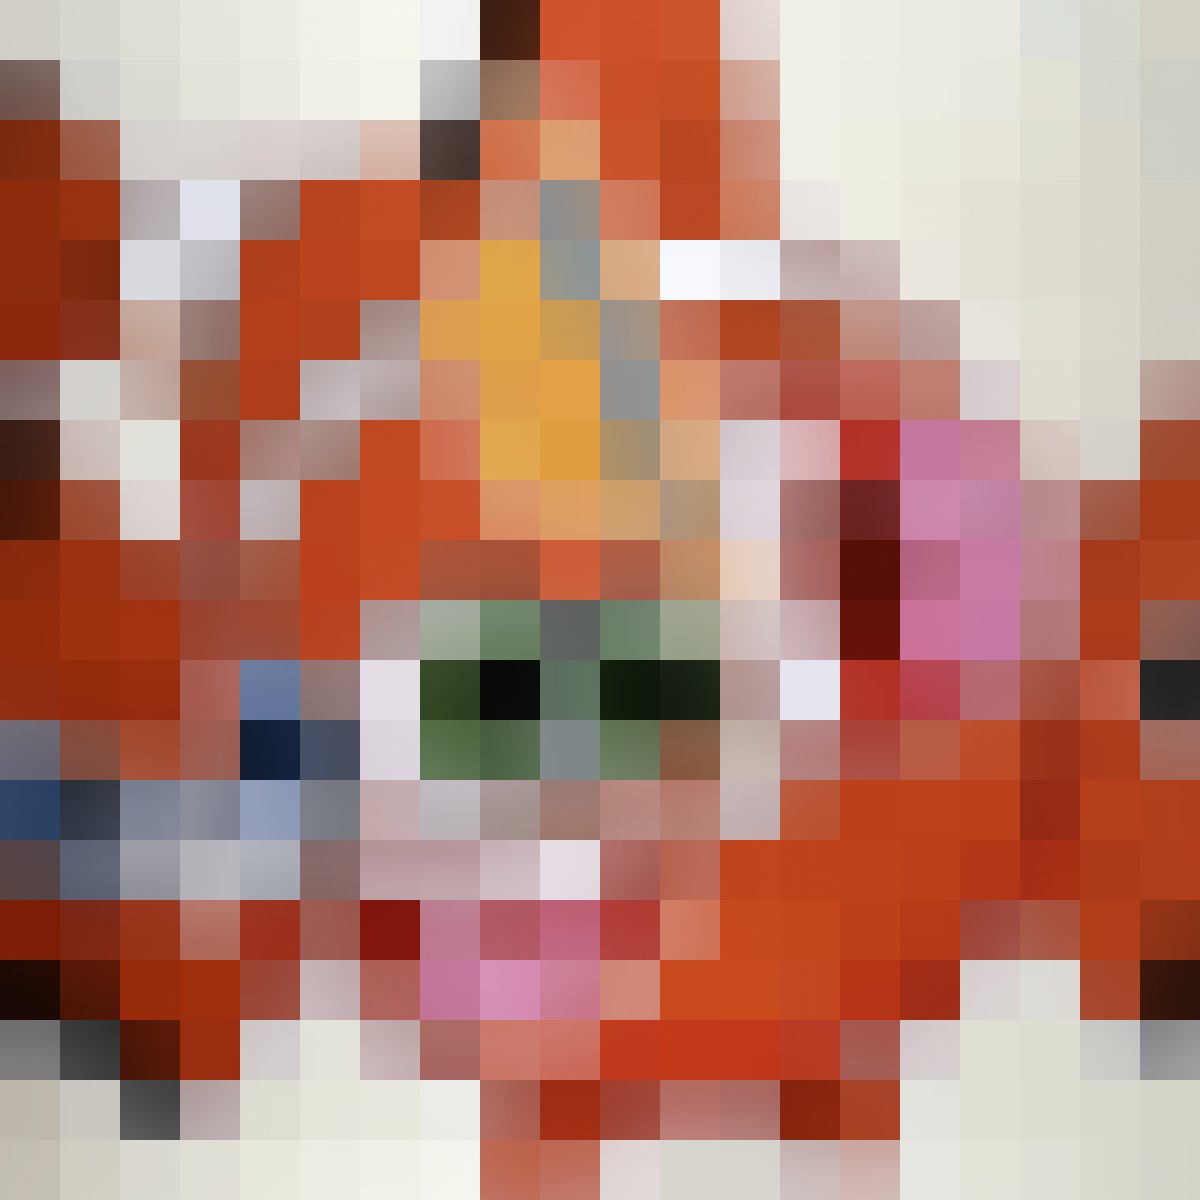
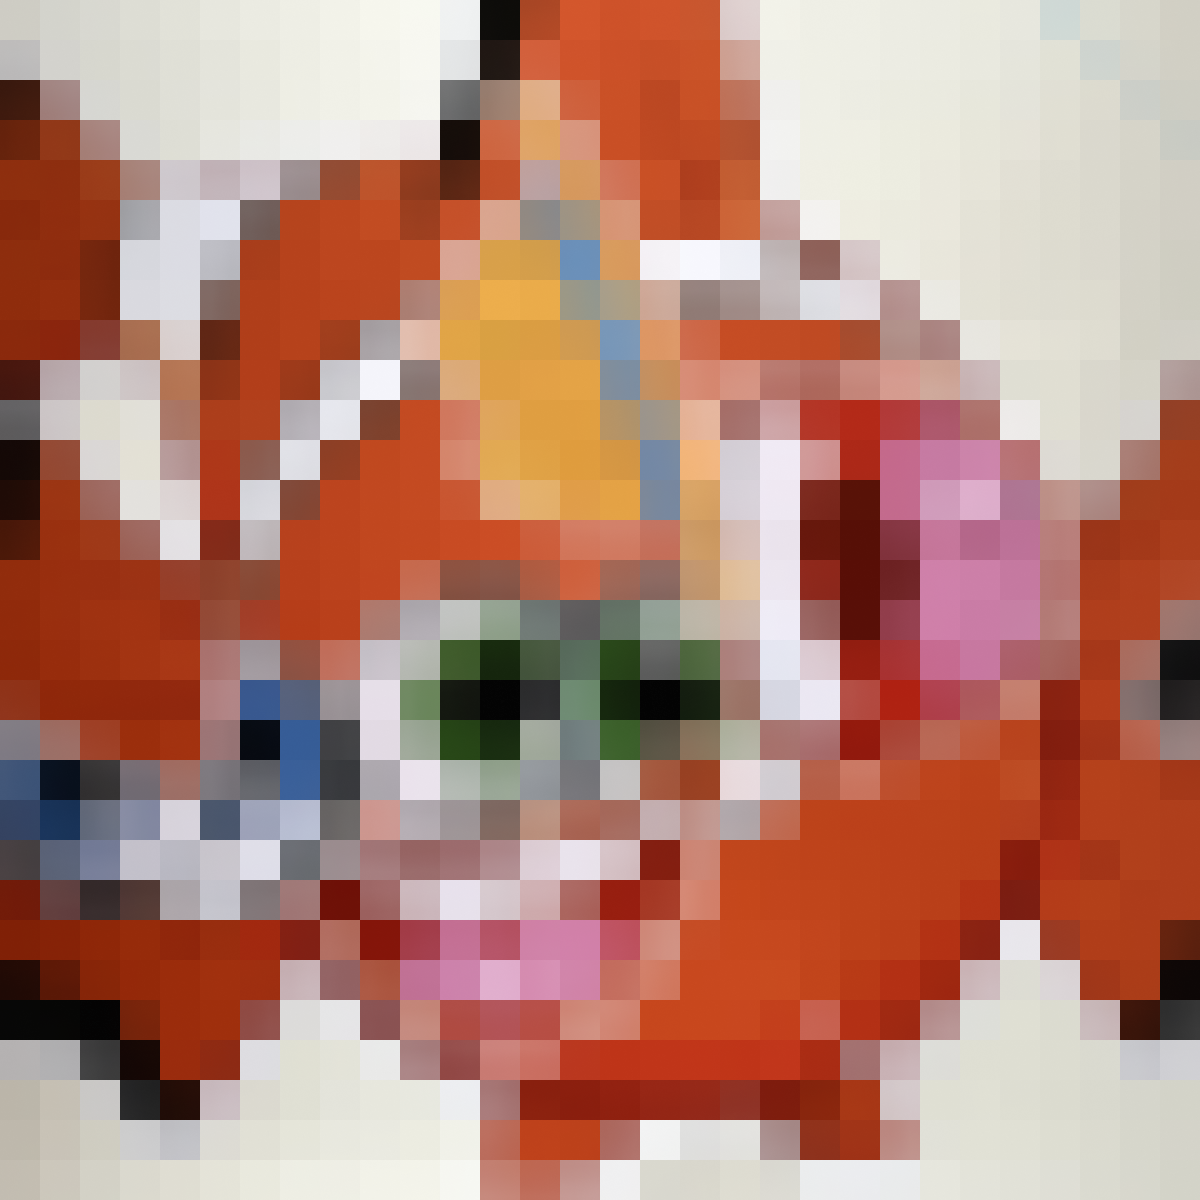
feat: finalize alpha launch content

diff --git a/src/styles/global.css b/src/styles/global.css
@@ -19,7 +19,7 @@
   --secondary: var(--peach);
   --tertiary: var(--cream);
   --header-text: var(--grey-20);
-  --primary-text: var(--grey-50);
+  --primary-text: var(--grey-40);
   --secondary-text: var(--grey-60);
   --accent-text: var(--peach);
   --disabled-text: var(--grey-60);
@@ -33,8 +33,8 @@
   --secondary: var(--peach);
   --tertiary: var(--cream);
   --header-text: var(--grey-80);
-  --primary-text: var(--grey-50);
-  --secondary-text: var(--grey-40);
+  --primary-text: var(--grey-60);
+  --secondary-text: var(--grey-50);
   --accent-text: var(--peach);
   --disabled-text: var(--grey-40);
   --card-bg: var(--grey-20);
@@ -68,4 +68,12 @@ html.mono {
 .md-content ul {
   margin-top: -10px;
   padding-left: 20px;
+}
+
+.retro-mode .retro-cover {
+  display: block !important;
+}
+
+.retro-mode .cover {
+  display: none;
 }

diff --git a/src/content.config.ts b/src/content.config.ts
@@ -10,7 +10,10 @@ const mixtapes = defineCollection({
       href: z.object({
         spotify: z.string().url(),
       }),
-      cover: image(),
+      cover: z.object({
+        default: image(),
+        retro: image(),
+      }),
       date: z.number(),
     }),
 });

diff --git a/src/mixtapes/pitt-wentworth.md b/src/mixtapes/pitt-wentworth.md
@@ -5,19 +5,22 @@ href:
   {
     spotify: 'https://open.spotify.com/playlist/1hE6gBi88csVWoxpSF1DTu?si=17c12d2b4a8b4236',
   }
-cover: '../assets/pitt_wentworth.jpg'
-date: 20.01
+cover:
+  {
+    default: '../assets/pitt_wentworth.jpg',
+    retro: '../assets/retro/pitt_wentworth.png',
+  }
+date: 1401
 ---
 
 Track List
 
 - Ghinzu - The Dragster Wave
 - Soulwax - E Talking
-- Zornik - Scared of Yourself
-- Fightstar - Floods
 - Does It Offend You, Yeah? - With A Heavy Heart
-- Muse - Glorious
-- Vendetta Red - Vendetta Red Cried Rape On Their Date with Destiny
+- Mintzkov - Life After Fire
 - Klaxons - Magick
 - Millionaire - Body Experience Revue
-- Mutemath - Typical
+- The Horrors - Jack The Ripper
+- dEUS - Bad Timing
+- Zornik - This Song Is Just for You

diff --git a/src/mixtapes/briefcase_tacos.md b/src/mixtapes/briefcase_tacos.md
@@ -1,0 +1,29 @@
+---
+title: 'Briefcase Tacos'
+genre: ['Punk', 'Pop punk']
+href:
+  {
+    spotify: 'https://open.spotify.com/playlist/72ubYnHerpjTWP2oCJOY5f?si=fb93c88b0a7b4075',
+  }
+cover:
+  {
+    default: '../assets/briefcase_tacos.png',
+    retro: '../assets/briefcase_tacos.png',
+  }
+date: 2210
+---
+
+Track List
+
+- Microwave - Lighterless
+- PUP - DVP
+- Drug Church - Weed Pin
+- Diarrhea Planet - Kids
+- Nothing - Vertigo Flowers
+- Basement - Aquasun
+- Violent Soho - Covered In Chrome
+- FIDLAR - 40oz. On Repeat
+- Wavves - Demon to Lean On
+- Fucked Up - Queen of Hearts
+- Origami Angel - Doctor Whomst
+- Jeff Rosenstock - Staring Out the Window at Your Old Apartment

diff --git a/src/mixtapes/sprint-st-grow-room.md b/src/mixtapes/sprint-st-grow-room.md
@@ -5,7 +5,11 @@ href:
   {
     spotify: 'https://open.spotify.com/playlist/4xOxSEE4bxzMlv1uNzJtPh?si=cc20fb9db29046eb',
   }
-cover: '../assets/sprint_st_grow_room.jpg'
+cover:
+  {
+    default: '../assets/spring_st_grow_room.jpg',
+    retro: '../assets/retro/spring_st_grow_room.png',
+  }
 date: 2102
 ---
 

diff --git a/src/mixtapes/two-pink-transformers.md b/src/mixtapes/two-pink-transformers.md
@@ -5,7 +5,11 @@ href:
   {
     spotify: 'https://open.spotify.com/playlist/1abMY7CMy7czckUX6TwuU6?si=4d0a683cc5f34472',
   }
-cover: '../assets/two_pink_transformers.jpg'
+cover:
+  {
+    default: '../assets/two_pink_transformers.jpg',
+    retro: '../assets/two_pink_transformers.jpg',
+  }
 date: 2002
 ---
 

diff --git a/src/mixtapes/lights-over-anderson.md b/src/mixtapes/lights-over-anderson.md
@@ -5,7 +5,11 @@ href:
   {
     spotify: 'https://open.spotify.com/playlist/3PrZEeLZdgiio7GEyz095Z?si=dd73ea64d9c2422a',
   }
-cover: '../assets/lights_over_anderson.png'
+cover:
+  {
+    default: '../assets/lights_over_anderson.png',
+    retro: '../assets/lights_over_anderson.png',
+  }
 date: 2410
 ---
 

diff --git a/src/mixtapes/tempest-of-titan.md b/src/mixtapes/tempest-of-titan.md
@@ -5,7 +5,11 @@ href:
   {
     spotify: 'https://open.spotify.com/playlist/6kIvI4ICB256VWapu7pOrx?si=f9d8fb722ac74f40',
   }
-cover: '../assets/tempests_of_titan.png'
+cover:
+  {
+    default: '../assets/tempests_of_titan.png',
+    retro: '../assets/tempests_of_titan.png',
+  }
 date: 2306
 ---
 

diff --git a/src/mixtapes/train-to-hakone.md b/src/mixtapes/train-to-hakone.md
@@ -5,7 +5,11 @@ href:
   {
     spotify: 'https://open.spotify.com/playlist/6IdAjK3xGFKlhwuNik8KyI?si=2167a83ad64d4b54',
   }
-cover: '../assets/train_to_hakone.jpg'
+cover:
+  {
+    default: '../assets/train_to_hakone.jpg',
+    retro: '../assets/train_to_hakone.jpg',
+  }
 date: 2108
 ---
 

diff --git a/src/mixtapes/loosies-2024.md b/src/mixtapes/loosies-2024.md
@@ -5,7 +5,11 @@ href:
   {
     spotify: 'https://open.spotify.com/playlist/0q3snlOKMwKS4yoJeAfzEW?si=7f245b82c06c4cc8',
   }
-cover: '../assets/loosies/2024.jpg'
+cover:
+  {
+    default: '../assets/loosies/2024.jpg',
+    retro: '../assets/retro/loosies/2024.png',
+  }
 date: 2412
 ---
 

diff --git a/src/mixtapes/loosies-2020.md b/src/mixtapes/loosies-2020.md
@@ -5,7 +5,8 @@ href:
   {
     spotify: 'https://open.spotify.com/playlist/6vYbT1lvie7XeNXaMLTXdh?si=5d5b5d9647284eef',
   }
-cover: '../assets/loosies/2020.jpg'
+cover:
+  { default: '../assets/loosies/2020.jpg', retro: '../assets/loosies/2020.jpg' }
 date: 2012
 ---
 

diff --git a/src/mixtapes/loosies-2021.md b/src/mixtapes/loosies-2021.md
@@ -5,7 +5,8 @@ href:
   {
     spotify: 'https://open.spotify.com/playlist/0Fx18hqI4zGwHVV8iqXdtW?si=4231dcdc33a8410d',
   }
-cover: '../assets/loosies/2021.jpg'
+cover:
+  { default: '../assets/loosies/2021.jpg', retro: '../assets/loosies/2021.jpg' }
 date: 2112
 ---
 
